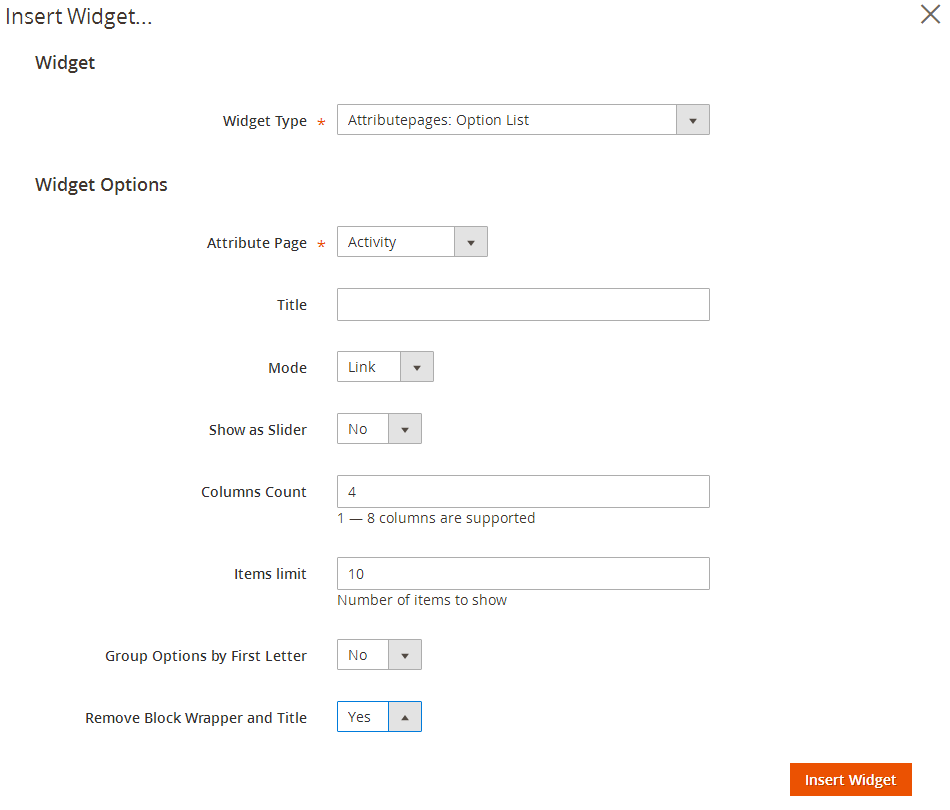
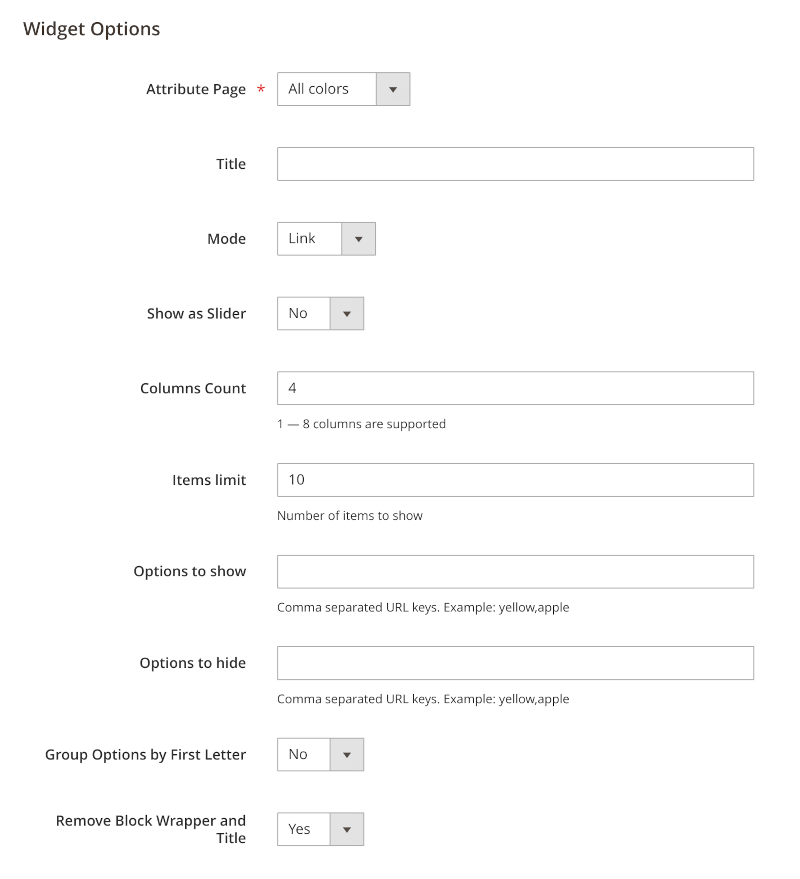
Attributepages: 1.5.0

diff --git a/m2/extensions/attributepages/widgets-and-blocks/option-based-pages-widget.md b/m2/extensions/attributepages/widgets-and-blocks/option-based-pages-widget.md
@@ -23,5 +23,7 @@ Title | Block title (not visible if `Remove Block Wrapper` is used)
 Mode | Show options as links or images
 Show as Slider | Slide mode for images is supported
 Columns Count | Columns count to split options list
+Options to show | Option URL keys (Eg. `yellow,apple`) to show in widget
+Options to hide | Option URL keys (Eg. `yellow,apple`) to hide from display
 Group Options by First Letter | Useful to improve experience, when there are many options available
 Remove Block Wrapper | Useful while inserting block into navigation dropdown and navigation parent item is used as block title.<br/> Look at screenshot on the top of the page

diff --git a/m2/extensions/attributepages/changelog.md b/m2/extensions/attributepages/changelog.md
@@ -7,6 +7,13 @@ category: Attributepages
 
 # Changelog
 
+### Version 1.5.0
+
+> Apr 28, 2022
+
+ -  Added ability to [filter certain options](/m2/extensions/attributepages/widgets-and-blocks/option-based-pages-widget/)
+    when using "Attributepages: Option List" widget.
+
 ### Version 1.4.5
 
 > Apr 15, 2022
